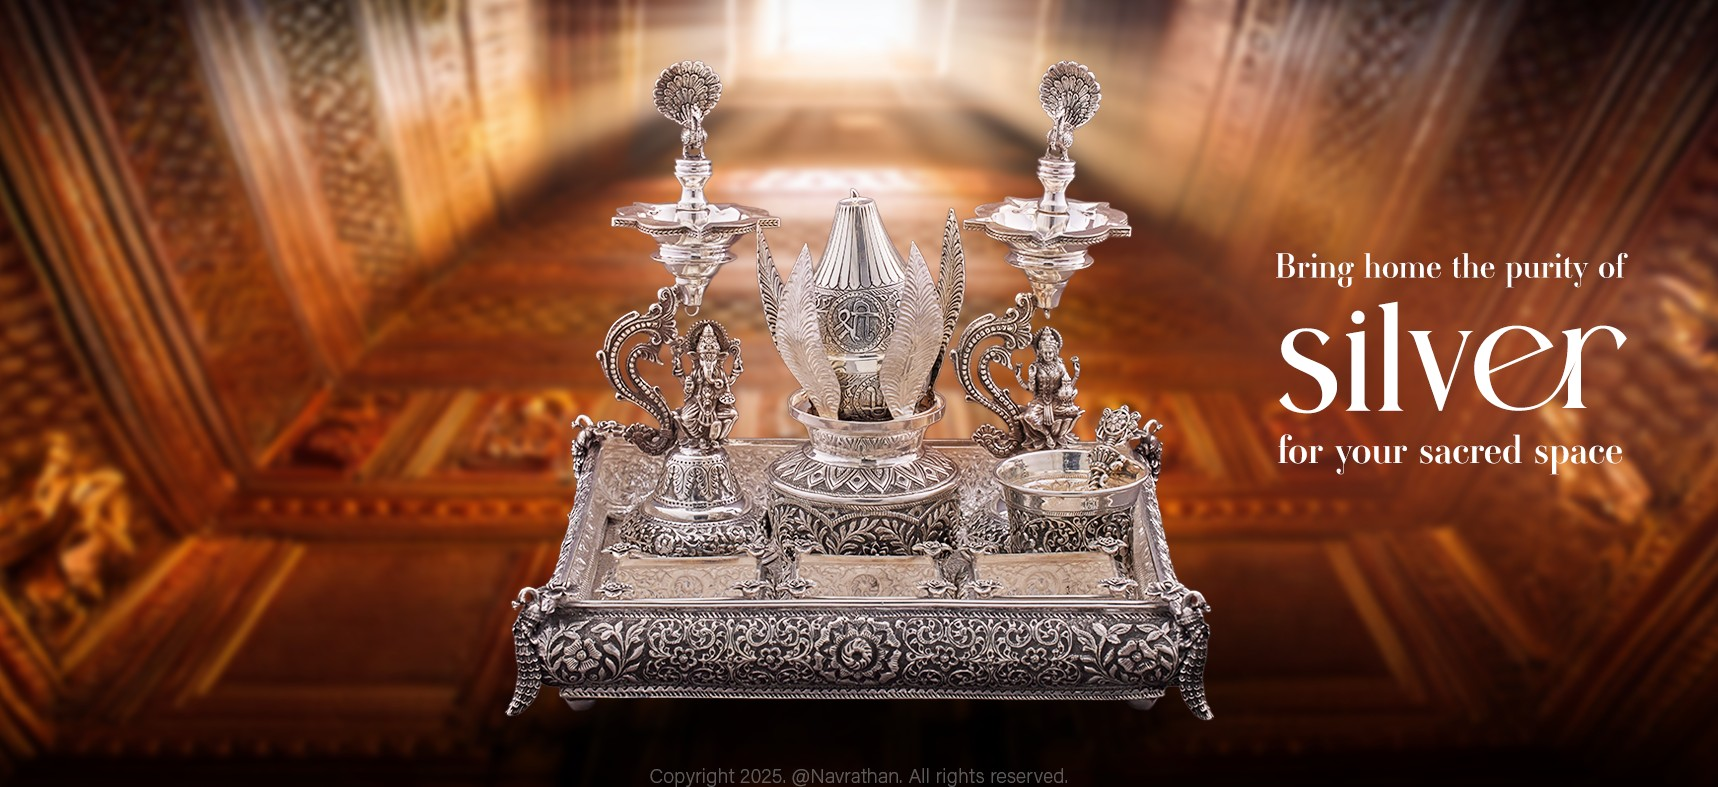
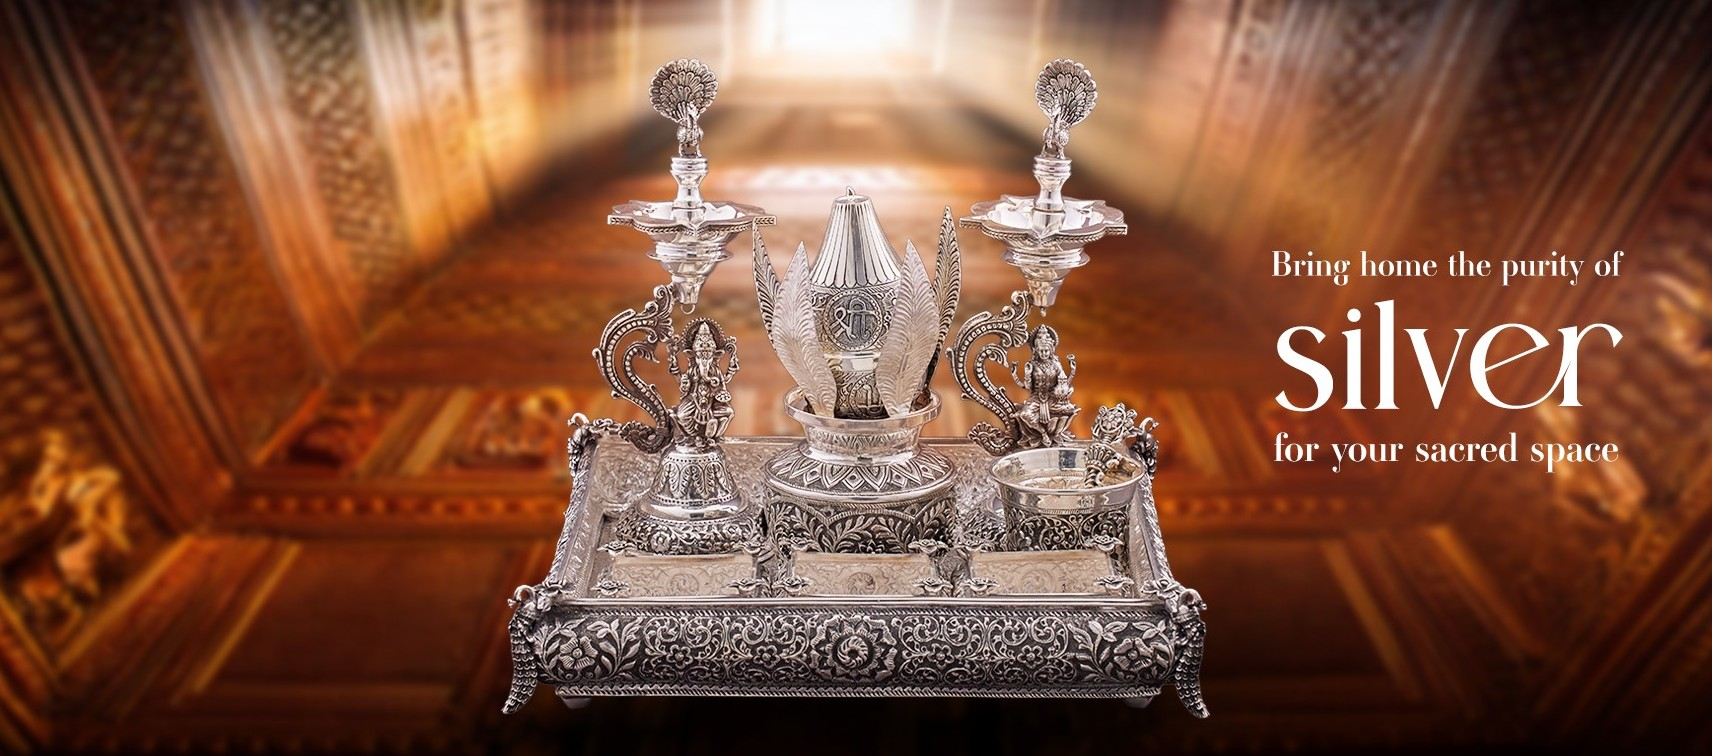
changes to font

diff --git a/components/AutoScrollBanner.js b/components/AutoScrollBanner.js
@@ -1,67 +1,93 @@
 import Box from '@mui/material/Box';
-import { useEffect, useRef } from 'react';
+import IconButton from '@mui/material/IconButton';
+import ArrowBackIosNewIcon from '@mui/icons-material/ArrowBackIosNew';
+import ArrowForwardIosIcon from '@mui/icons-material/ArrowForwardIos';
+import { useState, useEffect, useRef } from 'react';
 
 const images = ['/AutoScroll1.jpg', '/AutoScroll2.jpg', '/AutoScroll3.jpg'];
 
 export default function AutoScrollBanner() {
-  const scrollRef = useRef(null);
+  const [current, setCurrent] = useState(0);
+  const timeoutRef = useRef(null);
+  const AUTO_SCROLL_INTERVAL = 4000; // 4 seconds per image
 
+  const nextImage = () => {
+    setCurrent((prev) => (prev + 1) % images.length);
+  };
+
+  const prevImage = () => {
+    setCurrent((prev) => (prev - 1 + images.length) % images.length);
+  };
+
+  // Auto-scroll logic
   useEffect(() => {
-    const scrollContainer = scrollRef.current;
-    let scrollAmount = 0;
-    let direction = 1;
-    const maxScroll = scrollContainer.scrollWidth - scrollContainer.clientWidth;
-    const interval = setInterval(() => {
-      if (!scrollContainer) return;
-      scrollAmount += direction * 2;
-      if (scrollAmount >= maxScroll || scrollAmount <= 0) {
-        direction *= -1;
-      }
-      scrollContainer.scrollTo({ left: scrollAmount, behavior: 'smooth' });
-    }, 30);
-    return () => clearInterval(interval);
-  }, []);
+    clearTimeout(timeoutRef.current);
+    timeoutRef.current = setTimeout(() => {
+      nextImage();
+    }, AUTO_SCROLL_INTERVAL);
+    return () => clearTimeout(timeoutRef.current);
+  }, [current]);
 
   return (
     <Box
-      ref={scrollRef}
       sx={{
-        width: '100vw', // Full viewport width
+        width: '100vw',
         position: 'relative',
         left: '50%',
         right: '50%',
         marginLeft: '-50vw',
         marginRight: '-50vw',
-        overflowX: 'hidden', // Hide horizontal scrollbar
-        whiteSpace: 'nowrap',
+        overflow: 'hidden',
         display: 'flex',
-        bgcolor: '#fffbe6',
-        borderRadius: 2,
-        boxShadow: 2,
-        mb: 3,
-        p: 1,
-        minHeight: { xs: 120, sm: 180 }, // Responsive minHeight
+        alignItems: 'center',
+        justifyContent: 'center',
+        mb: 0,
+        p: 0,
+        minHeight: 0,
+        bgcolor: 'transparent',
+        borderRadius: 0,
+        boxShadow: 'none',
       }}
     >
-      {images.map((src, idx) => (
-        <Box
-          key={src}
-          component="img"
-          src={src}
-          alt={`Banner ${idx + 1}`}
-          sx={{
-            height: { xs: 100, sm: 180, md: 320 }, // Responsive image height
-            width: { xs: '100vw', sm: '100vw', md: '100vw' }, // Responsive image width
-            maxWidth: '100vw',
-            objectFit: 'cover',
-            borderRadius: 2,
-            mx: 0,
-            boxShadow: 1,
-            border: '2px solid #FFD700',
-            display: 'inline-block',
-          }}
-        />
-      ))}
+      <IconButton
+        aria-label="previous"
+        onClick={prevImage}
+        sx={{
+          position: 'absolute', left: 24, top: '50%', transform: 'translateY(-50%)', zIndex: 2,
+          bgcolor: 'transparent', border: 'none', boxShadow: 'none', p: 0,
+        }}
+      >
+        <ArrowBackIosNewIcon sx={{ color: '#bfa14a', fontSize: { xs: 40, sm: 56 }, opacity: 0.8 }} />
+      </IconButton>
+      <Box
+        component="img"
+        src={images[current]}
+        alt={`Banner ${current + 1}`}
+        sx={{
+          height: { xs: 'calc(100vw * 0.35)', sm: 'calc(100vw * 0.35)', md: 'calc(100vw * 0.35)' },
+          width: { xs: 'calc(100vw - 10rem)', sm: 'calc(100vw - 10rem)', md: 'calc(100vw - 10rem)' },
+          minWidth: { xs: 'calc(100vw - 10rem)', sm: 'calc(100vw - 10rem)', md: 'calc(100vw - 10rem)' },
+          maxWidth: { xs: 'calc(100vw - 10rem)', sm: 'calc(100vw - 10rem)', md: 'calc(100vw - 10rem)' },
+          objectFit: 'contain',
+          borderRadius: 0,
+          boxShadow: 'none',
+          border: 'none',
+          display: 'block',
+          mt: -2,
+          mx: '5rem',
+          background: 'transparent',
+        }}
+      />
+      <IconButton
+        aria-label="next"
+        onClick={nextImage}
+        sx={{
+          position: 'absolute', right: 24, top: '50%', transform: 'translateY(-50%)', zIndex: 2,
+          bgcolor: 'transparent', border: 'none', boxShadow: 'none', p: 0,
+        }}
+      >
+        <ArrowForwardIosIcon sx={{ color: '#bfa14a', fontSize: { xs: 40, sm: 56 }, opacity: 0.8 }} />
+      </IconButton>
     </Box>
   );
 }

diff --git a/pages/index.js b/pages/index.js
@@ -29,7 +29,7 @@ export default function Home() {
       </Head>
       <Header />
       <Box sx={{ flex: 1, p: { xs: 2, sm: 4 }, width: '100%', maxWidth: 1200, mx: 'auto' }}>
-        <Typography variant="h4" sx={{ mt: 1, mb: 2, fontWeight: 700, color: '#bfa14a', textAlign: 'center', letterSpacing: 2, fontFamily: [
+        <Typography variant="h4" sx={{ mt: 1, mb: 2, fontWeight: 400, color: '#bfa14a', textAlign: 'center', letterSpacing: 2, fontFamily: [
           '-apple-system',
           'BlinkMacSystemFont',
           '"Segoe UI"',

diff --git a/components/Header.js b/components/Header.js
@@ -1,5 +1,3 @@
-
-
 import Link from 'next/link';
 import AppBar from '@mui/material/AppBar';
 import Toolbar from '@mui/material/Toolbar';
